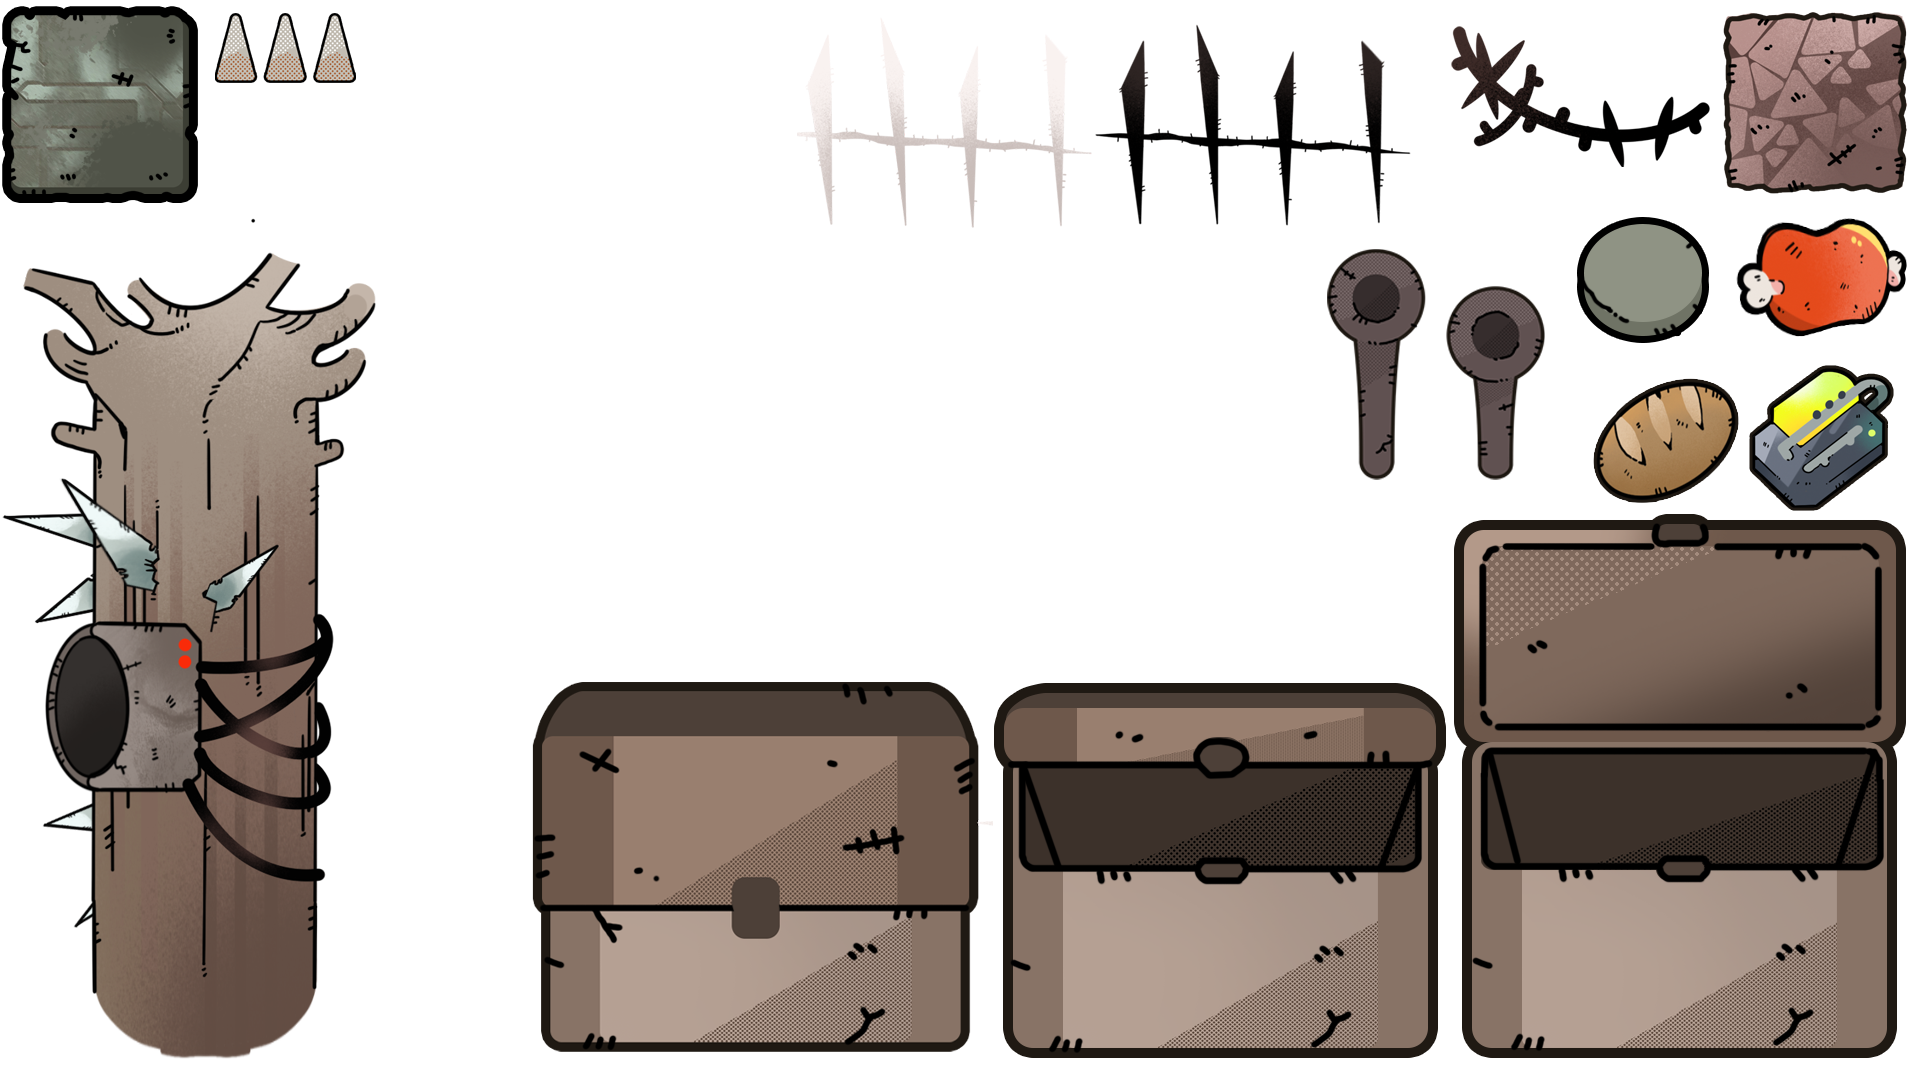
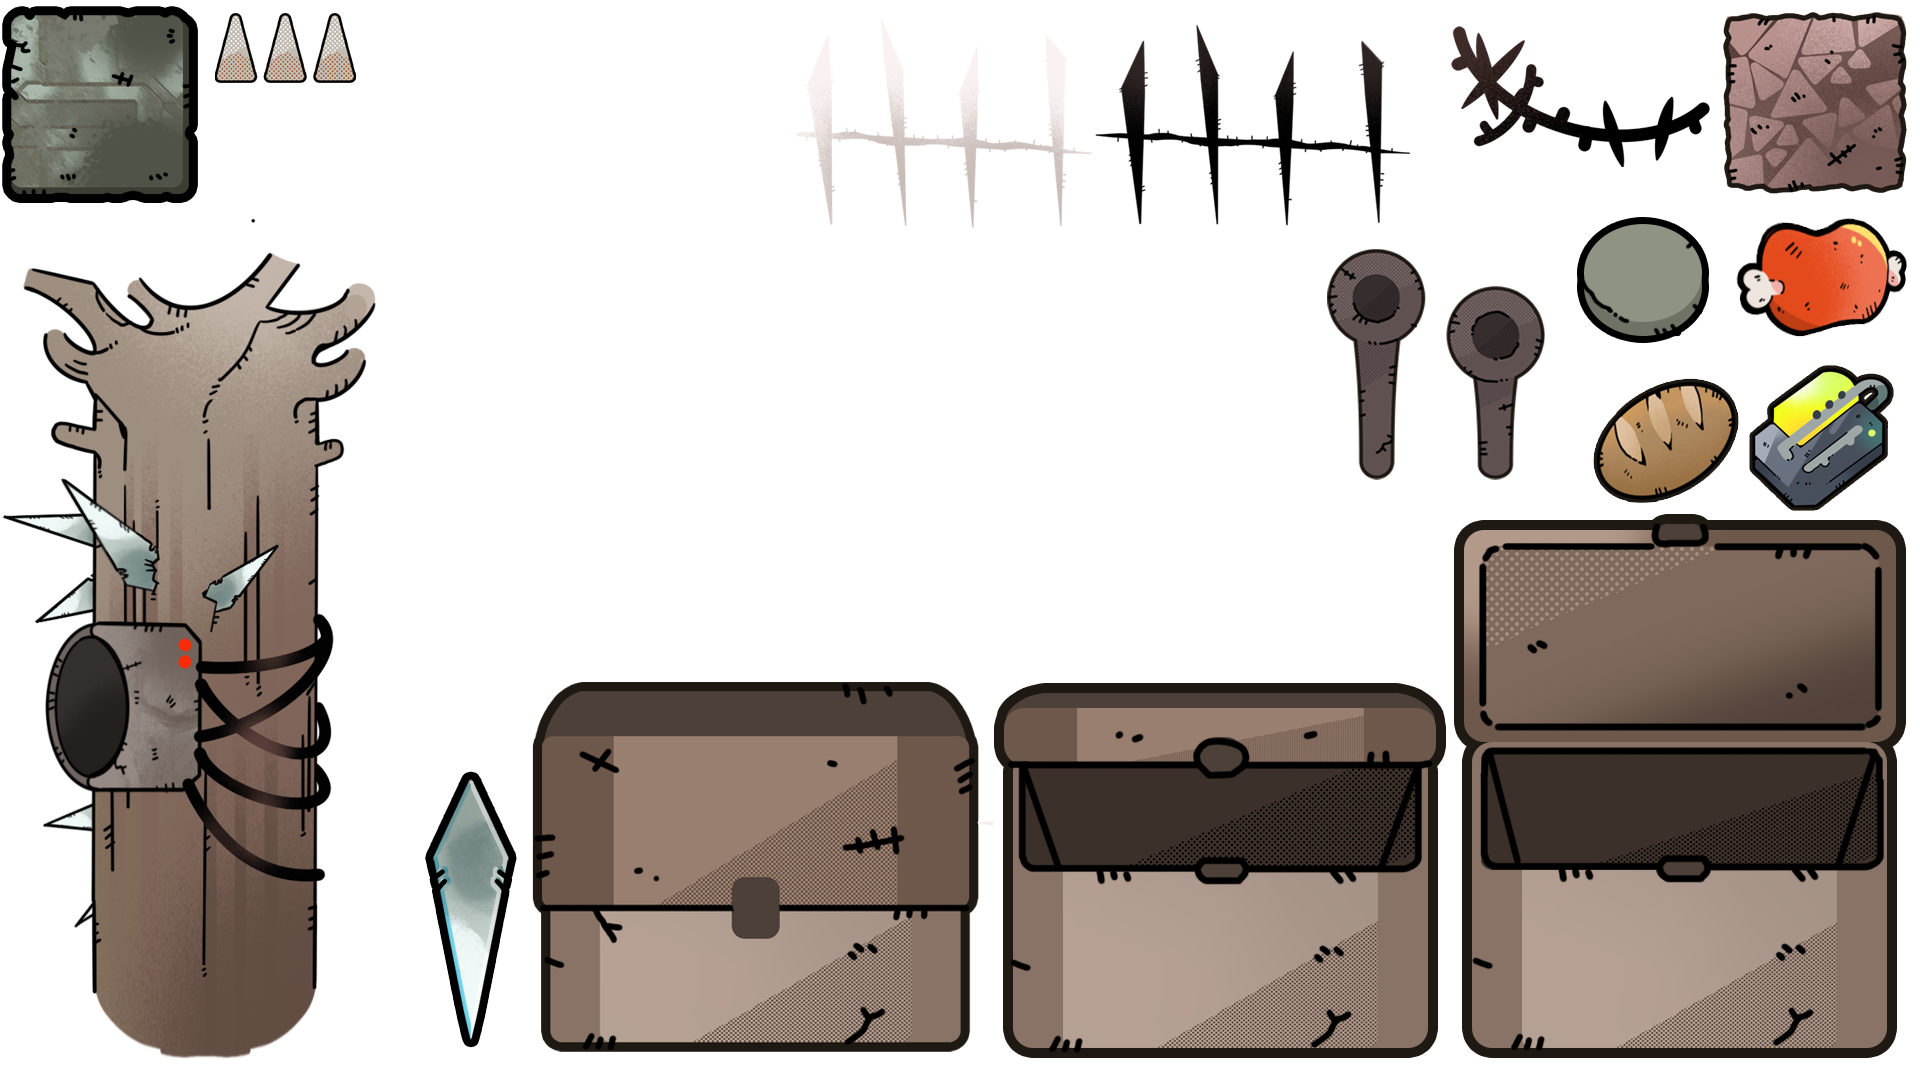
shardshooter

Changed region(s): [[0.2188, 0.7028, 0.2812, 0.9778]]

diff --git a/TrainGame/Assets/Scripts/ROK/Traps.cs b/TrainGame/Assets/Scripts/ROK/Traps.cs
@@ -14,12 +14,15 @@ public class Traps : MonoBehaviour
     [SerializeField] private float duration;
     [SerializeField] private float waitTime;
     [SerializeField] private List<GameObject> Effects = new List<GameObject>();
+    [SerializeField] private List<GameObject> Objects = new List<GameObject>();
+    [SerializeField] private List<GameObject> Point = new List<GameObject>();
+
     [SerializeField] private List<GameObject> Projectile = new List<GameObject>();
     public bool inZone = false;
 
     void Start(){
         anim = this.gameObject.GetComponent<Animator>();
-        Effects[0].SetActive(false);
+        if(Effects.Count>0){Effects[0].SetActive(false);}
         switch(currentType){
             case TrapType.MINE:
 
@@ -31,7 +34,7 @@ public class Traps : MonoBehaviour
 
             break;
             case TrapType.SHARDSHOOTER:
-
+                StartCoroutine("Trap_ShardShooter");
             break;
         }
 
@@ -55,7 +58,9 @@ public class Traps : MonoBehaviour
 
             break;
             case TrapType.SHARDSHOOTER:
-
+                Debug.DrawRay(Point[0].transform.position, new Vector3(-40,0,0), Color.red);
+                //StartCoroutine("ShardShoot");
+                
             break;
         }
 //-----test
@@ -83,12 +88,31 @@ public class Traps : MonoBehaviour
         Effects[0].SetActive(false);
         StartCoroutine("Trap_Spike");
     }
-    private void Trap_DeadlyBound(){
-
+    IEnumerator Trap_DeadlyBound(){
+        yield return new WaitForSeconds(0);
     }
-    private void Trap_ShardShooter(){
-
+    IEnumerator Trap_ShardShooter(){
+        Projectile.Clear();
+        Projectile.TrimExcess();
+        yield return new WaitForSeconds(0);
+        for(int i = 0; i<3;i++){
+            GameObject s = Instantiate(Objects[0], Point[0].transform.position, Quaternion.identity);
+            s.transform.rotation = Quaternion.Euler(0f, 0f, -90f);
+            yield return new WaitForSeconds(.5f);
+        }
+        yield return new WaitForSeconds(waitTime);
+        StartCoroutine("Trap_ShardShooter");
     }
+    // IEnumerator ShardShoot(){
+    //     yield return new WaitForSeconds(0);
+    //     if(Projectile.Count>2){
+    //         for(int i = 0; i<3;i++){
+    //             Projectile[i].transform.Translate(Vector3.left * 100 * Time.deltaTime);
+    //             yield return new WaitForSeconds(5f);
+    //         }
+    //     }
+    //     yield return new WaitForSeconds(3f);
+    // }
     private void OnTriggerEnter(Collider col) {
         if(col.gameObject.tag == "Player"){
             inZone = true;

diff --git a/TrainGame/Assets/Scripts/ROK/TrapProjectile.cs b/TrainGame/Assets/Scripts/ROK/TrapProjectile.cs
@@ -1,0 +1,19 @@
+using System.Collections;
+using System.Collections.Generic;
+using UnityEngine;
+
+public class TrapProjectile : MonoBehaviour
+{
+    [SerializeField] private int speed;
+    void Start()
+    {
+        AutoDestruct();
+    }
+    void Update()
+    {
+        this.transform.Translate(Vector3.down * speed * Time.deltaTime);
+    }
+    void AutoDestruct(){
+        Destroy(this.gameObject, 5f);
+    }
+}
